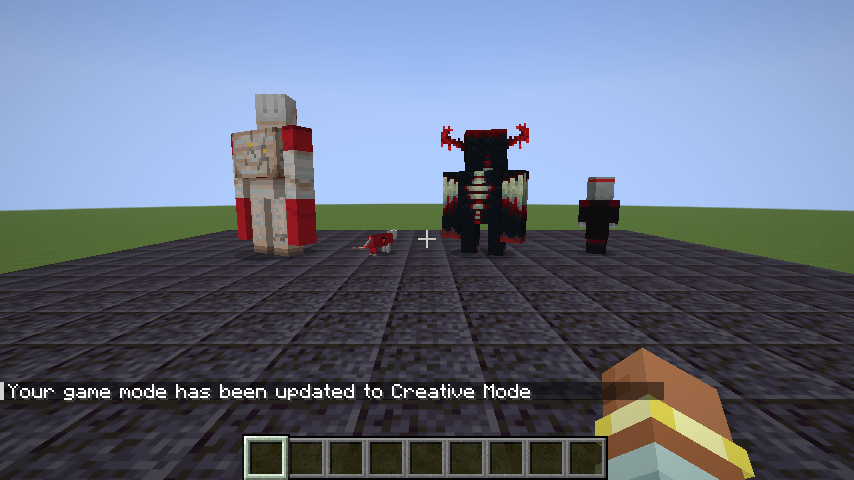
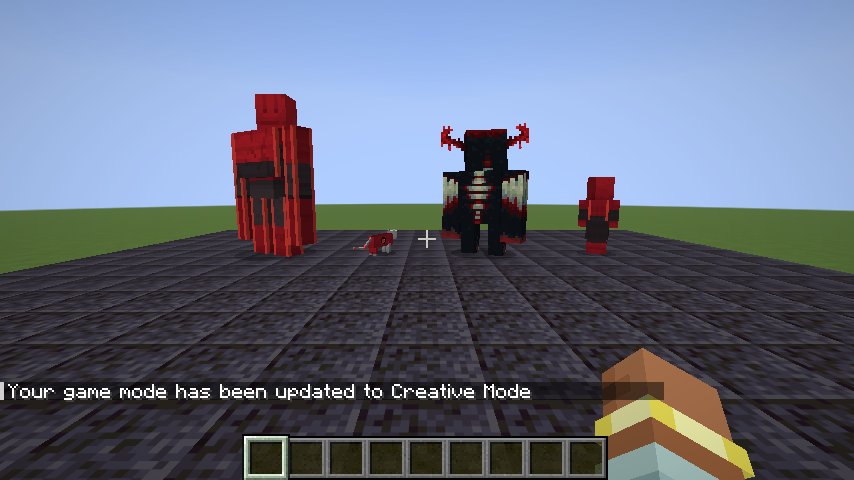
Red suits pass 2: full red and black golem with green eyes, armoured raiders, glowing silhouettes
J's notes on PR #191: the Blood Iron golem now wears a full red and black suit with green eyes,
and the Rage Raider gets a red helmet, chest plate, shoulder pads, gloves and boots over a black
undersuit. Both get a glowing silhouette like the Blue Lantern villagers: their box edges, emblem
and eyes drawn again in full light (emissive, ShaderGlow light).

Claude-Session: https://claude.ai/code/session_01MnfvUtwBdofXwYLcg96qEB

Changed region(s): [[0.274, 0.1875, 0.3653, 0.5312], [0.6698, 0.375, 0.7307, 0.4688], [0.6698, 0.5, 0.7307, 0.5312]]

diff --git a/tools/red_suits.py b/tools/red_suits.py
@@ -23,6 +23,8 @@ CRIMSON = ((70, 6, 14), (200, 30, 40))
 BLACK = ((16, 12, 14), (62, 50, 54))
 GLOW = (255, 70, 56)
 HOT = (255, 196, 186)
+EYE = (70, 255, 90)
+EYE_HOT = (210, 255, 200)
 
 
 def lum(p):
@@ -36,8 +38,16 @@ def ramp(p, pal, lo=0.15, hi=0.75):
     return tuple(round(a[i] + (b[i] - a[i]) * t) for i in range(3)) + (p[3],)
 
 
-def paint(im, box, pal, **kw):
+def paint(im, box, pal, norm=False, **kw):
+    """Shades the region from the palette by each pixel's brightness. With norm, the region's own darkest
+    and lightest pixels set the stretch, so dark cloth and bright iron come out equally bright."""
     x0, y0, x1, y1 = box
+    if norm:
+        ls = [lum(im.getpixel((x, y))) for y in range(y0, y1) for x in range(x0, x1) if im.getpixel((x, y))[3]]
+        if ls:
+            lo, hi = min(ls), max(ls)
+            span = max(hi - lo, 0.2)
+            kw = {"lo": lo - span * 0.8, "hi": lo + span}
     for y in range(y0, y1):
         for x in range(x0, x1):
             p = im.getpixel((x, y))
@@ -70,29 +80,97 @@ def reds_for_greens(im, box):
                 put(im, x, y, GLOW)
 
 
+def box(u, v, w, h, d):
+    """A model box's faces in its texture, as (x0, y0, x1, y1)."""
+    return {
+        "top": (u + d, v, u + d + w, v + d),
+        "bottom": (u + d + w, v, u + d + 2 * w, v + d),
+        "right": (u, v + d, u + d, v + d + h),
+        "front": (u + d, v + d, u + d + w, v + d + h),
+        "left": (u + d + w, v + d, u + 2 * d + w, v + d + h),
+        "back": (u + 2 * d + w, v + d, u + 2 * d + 2 * w, v + d + h),
+    }
+
+
+SIDES = ("right", "front", "left", "back")
+
+
+def bands(im, faces, rows, sides=SIDES):
+    """Paints the side faces in horizontal bands: rows is [(first row, end row, palette)], counted down the face."""
+    for side in sides:
+        x0, y0, x1, y1 = faces[side]
+        for r0, r1, pal in rows:
+            paint(im, (x0, y0 + r0, x1, min(y1, y0 + r1)), pal, norm=True)
+
+
+def edges(glow, faces, colour=GLOW, sides=SIDES, rows=None):
+    """The glowing silhouette: a line down both edges of each side face, so every corner of the box is lit."""
+    for side in sides:
+        x0, y0, x1, y1 = faces[side]
+        r0, r1 = (y0, y1) if rows is None else (y0 + rows[0], y0 + rows[1])
+        for y in range(r0, r1):
+            put(glow, x0, y, colour)
+            put(glow, x1 - 1, y, colour)
+
+
+def emblem_big(im, cx, cy, glow=None):
+    """The Red Lantern emblem, 6x6: a ring with the lantern's flame inside."""
+    rows = ["..##..", ".#..#.", "#.##.#", "#.##.#", ".#..#.", "..##.."]
+    for dy, row in enumerate(rows):
+        for dx, ch in enumerate(row):
+            if ch == "#":
+                c = HOT if (dx, dy) in ((2, 2), (3, 2)) else GLOW
+                put(im, cx + dx, cy + dy, c)
+                if glow is not None:
+                    put(glow, cx + dx, cy + dy, c)
+            elif 1 <= dx <= 4 and 1 <= dy <= 4:
+                put(im, cx + dx, cy + dy, BLACK[0])
+
+
 def pillager(src):
+    """P1 Rage Raider, after the Red Lantern troopers: a red helmet, chest plate, shoulder pads, gloves and
+    boots over a black undersuit, the emblem on the chest, and a red glowing silhouette."""
     im = Image.open(os.path.join(src, "illager", "pillager.png")).convert("RGBA")
-    # Head: a red headband all the way round, red eyes.
-    for x in range(0, 32):
-        put(im, x, 9, CRIMSON[1])
-    reds_for_greens(im, (8, 8, 16, 18))
-    # Body: black, with a crimson chest plate and the emblem.
-    paint(im, (16, 20, 44, 38), BLACK)
-    paint(im, (23, 27, 29, 38), CRIMSON)
-    emblem(im, 24, 29)
-    # The coat over the legs: black, with a red hem.
-    paint(im, (0, 38, 28, 64), BLACK)
-    for x in range(0, 28):
-        if im.getpixel((x, 63))[3]:
-            put(im, x, 63, CRIMSON[0])
-    # Arms: black sleeves, red shoulders; the hands stay.
-    paint(im, (40, 46, 56, 60), BLACK)
-    paint(im, (40, 46, 56, 53), CRIMSON)
-    # Legs: black with red knee guards.
-    paint(im, (0, 22, 16, 38), BLACK)
-    paint(im, (4, 30, 8, 33), CRIMSON)
-    paint(im, (12, 30, 16, 33), CRIMSON)
-    return im
+    glow = Image.new("RGBA", im.size)
+    head = box(0, 0, 8, 10, 8)
+    # The helmet: everything but the face, plus a brow rim over it.
+    for side in ("top", "right", "left", "back"):
+        paint(im, head[side], CRIMSON, norm=True)
+    fx0, fy0, fx1, fy1 = head["front"]
+    paint(im, (fx0, fy0, fx1, fy0 + 3), CRIMSON, norm=True)
+    for x in range(fx0, fx1):
+        put(im, x, fy0 + 3, BLACK[0])
+    for x, y in ((9, 14), (10, 14), (13, 14), (14, 14)):
+        put(im, x, y, HOT if x in (10, 13) else GLOW)
+        put(glow, x, y, HOT if x in (10, 13) else GLOW)
+    # The body: a red chest plate over a black undersuit, the emblem in the middle.
+    body = box(16, 20, 8, 12, 6)
+    paint(im, body["top"], CRIMSON, norm=True)
+    bands(im, body, [(0, 12, BLACK), (0, 7, CRIMSON)])
+    emblem_big(im, body["front"][0] + 1, body["front"][1] + 1, glow)
+    edges(glow, body)
+    # Arms: red shoulder pads, black sleeves, red gloves.
+    for u, v in ((40, 46),):
+        arm = box(u, v, 4, 12, 4)
+        paint(im, arm["top"], CRIMSON, norm=True)
+        paint(im, arm["bottom"], CRIMSON, norm=True)
+        bands(im, arm, [(0, 12, BLACK), (0, 4, CRIMSON), (9, 12, CRIMSON)])
+        edges(glow, arm, sides=("right", "left"))
+    # Crossed arms (the pose it holds when idle without a crossbow).
+    for u, v, w, h, d in ((44, 22, 4, 8, 4), (40, 38, 8, 4, 4)):
+        f = box(u, v, w, h, d)
+        for side in f.values():
+            paint(im, side, BLACK, norm=True)
+    # The coat's skirt and belt under the chest plate: black, with a red belt line.
+    paint(im, (0, 38, 28, 64), BLACK, norm=True)
+    jacket = box(0, 38, 8, 20, 6)
+    bands(im, jacket, [(0, 1, CRIMSON)])
+    # Legs: black, with red boots.
+    leg = box(0, 22, 4, 12, 4)
+    paint(im, leg["bottom"], CRIMSON, norm=True)
+    bands(im, leg, [(0, 12, BLACK), (7, 12, CRIMSON)])
+    edges(glow, leg, sides=("right", "left"))
+    return im, glow
 
 
 def warden(src):
@@ -141,37 +219,70 @@ def cat(src):
 
 
 def golem(src):
+    """G1 Blood Iron, now a full suit: red armour over a black undersuit from head to foot, green eyes,
+    the Red Lantern emblem on the chest and a red glowing silhouette."""
     im = Image.open(os.path.join(src, "iron_golem", "iron_golem.png")).convert("RGBA")
+    glow = Image.new("RGBA", im.size)
     w, h = im.size
-    # No vines: green turns back to iron.
+    # No vines.
     for y in range(h):
         for x in range(w):
             r, g, b, a = im.getpixel((x, y))
             if a and g > r + 12 and g > b + 12:
                 v = int(lum((r, g, b, a)) * 255 * 1.15)
                 im.putpixel((x, y), (v, v - 4, v - 8, a))
-    reds_for_greens(im, (0, 0, 32, 18))
-    # Crimson shoulder plates over the top of the body and arms.
-    paint(im, (0, 40, 40, 51), CRIMSON)
-    paint(im, (60, 21, 80, 33), CRIMSON)
-    paint(im, (60, 58, 80, 70), CRIMSON)
-    # Crimson gauntlets on the forearms.
-    paint(im, (60, 45, 80, 57), CRIMSON)
-    paint(im, (60, 82, 80, 94), CRIMSON)
-    # A Red Lantern battery set in its chest (body front is 11..29, 51..63).
-    for y in range(53, 62):
-        for x in range(16, 24):
-            edge = x in (16, 23) or y in (53, 61)
-            core = 18 <= x <= 21 and 55 <= y <= 59
-            put(im, x, y, BLACK[0] if edge else HOT if core and 19 <= x <= 20 and 56 <= y <= 58 else GLOW if core else CRIMSON[0])
-    return im
+    # Head: a red helmet with a black visor band across the eyes; the eyes glow green.
+    head = box(0, 0, 8, 10, 8)
+    for side in head.values():
+        paint(im, side, CRIMSON, norm=True)
+    fx0, fy0, fx1, fy1 = head["front"]
+    for x in range(fx0, fx1):
+        for y in range(fy0 + 4, fy0 + 7):
+            put(im, x, y, BLACK[0] if y == fy0 + 4 else BLACK[1])
+    for x, y in ((9, 13), (10, 13), (13, 13), (14, 13), (9, 14), (10, 14), (13, 14), (14, 14)):
+        c = EYE_HOT if y == 14 and x in (9, 14) else EYE
+        put(im, x, y, c)
+        put(glow, x, y, c)
+    paint(im, (24, 0, 32, 6), CRIMSON, norm=True)  # the nose
+    # Chest: red plate, black at the sides, the emblem big in the middle.
+    body = box(0, 40, 18, 12, 11)
+    paint(im, body["top"], CRIMSON, norm=True)
+    paint(im, body["bottom"], BLACK, norm=True)
+    bands(im, body, [(0, 12, CRIMSON), (8, 12, BLACK)], sides=("front", "back"))
+    bands(im, body, [(0, 12, BLACK), (0, 4, CRIMSON)], sides=("right", "left"))
+    emblem_big(im, body["front"][0] + 6, body["front"][1] + 1, glow)
+    edges(glow, body)
+    # Waist: black with a red belt line.
+    waist = box(0, 70, 9, 5, 6)
+    for side in waist.values():
+        paint(im, side, BLACK, norm=True)
+    bands(im, waist, [(0, 1, CRIMSON)])
+    # Arms: red shoulder pads, black upper arm, red gauntlets with a black cuff.
+    for u, v in ((60, 21), (60, 58)):
+        arm = box(u, v, 4, 30, 6)
+        paint(im, arm["top"], CRIMSON, norm=True)
+        paint(im, arm["bottom"], CRIMSON, norm=True)
+        bands(im, arm, [(0, 30, BLACK), (0, 9, CRIMSON), (17, 30, CRIMSON), (17, 18, BLACK)])
+        edges(glow, arm)
+    # Legs: black thighs, red boots.
+    for u, v in ((37, 0), (60, 0)):
+        leg = box(u, v, 6, 16, 5)
+        paint(im, leg["top"], BLACK, norm=True)
+        paint(im, leg["bottom"], CRIMSON, norm=True)
+        bands(im, leg, [(0, 16, BLACK), (8, 16, CRIMSON)])
+        edges(glow, leg)
+    return im, glow
 
 
 def main():
     src = sys.argv[1]
     os.makedirs(OUT, exist_ok=True)
     for name, fn in (("rage_raider", pillager), ("caged_heart_warden", warden), ("rage_cat", cat), ("blood_iron_golem", golem)):
-        fn(src).save(os.path.join(OUT, name + ".png"))
+        out = fn(src)
+        im, glow = out if isinstance(out, tuple) else (out, None)
+        im.save(os.path.join(OUT, name + ".png"))
+        if glow is not None:
+            glow.save(os.path.join(OUT, name + "_glow.png"))
         print("wrote", name)
 
 

diff --git a/src/client/java/com/sparky/lanternring/client/corps/RedSuitRenderers.java b/src/client/java/com/sparky/lanternring/client/corps/RedSuitRenderers.java
@@ -11,7 +11,16 @@ import net.minecraft.client.renderer.entity.EntityRendererProvider;
 import net.minecraft.client.renderer.entity.IronGolemRenderer;
 import net.minecraft.client.renderer.entity.PillagerRenderer;
 import net.minecraft.client.renderer.entity.WardenRenderer;
+import com.mojang.blaze3d.vertex.PoseStack;
+import com.sparky.lanternring.client.ShaderGlow;
+import java.util.function.Predicate;
+import net.minecraft.client.model.EntityModel;
+import net.minecraft.client.renderer.SubmitNodeCollector;
+import net.minecraft.client.renderer.entity.RenderLayerParent;
 import net.minecraft.client.renderer.entity.layers.LivingEntityEmissiveLayer;
+import net.minecraft.client.renderer.entity.layers.RenderLayer;
+import net.minecraft.client.renderer.entity.state.LivingEntityRenderState;
+import net.minecraft.client.renderer.texture.OverlayTexture;
 import net.minecraft.client.renderer.entity.state.CatRenderState;
 import net.minecraft.client.renderer.entity.state.IllagerRenderState;
 import net.minecraft.client.renderer.entity.state.IronGolemRenderState;
@@ -34,11 +43,36 @@ public final class RedSuitRenderers {
 	private RedSuitRenderers() {
 	}
 
+	/**
+	 * The suit's glowing silhouette, as the Blue Lantern villagers have theirs: the box edges, the emblem and
+	 * the eyes drawn again on top in full light, breathing slowly. Emissive translucent with ShaderGlow's light,
+	 * so it blooms under the patched pack instead of turning into a black box.
+	 */
+	static class SuitGlow<S extends LivingEntityRenderState, M extends EntityModel<? super S>> extends RenderLayer<S, M> {
+		private final Identifier texture;
+		private final Predicate<S> when;
+
+		SuitGlow(RenderLayerParent<S, M> parent, Identifier texture, Predicate<S> when) {
+			super(parent);
+			this.texture = texture;
+			this.when = when;
+		}
+
+		@Override
+		public void submit(PoseStack poseStack, SubmitNodeCollector collector, int light, S state, float yRot, float xRot) {
+			if (state.isInvisible || !when.test(state)) return;
+			float a = 0.8f + 0.2f * Mth.sin(state.ageInTicks * 0.1f);
+			collector.order(1).submitModel(getParentModel(), state, poseStack, RenderTypes.entityTranslucentEmissive(texture),
+					ShaderGlow.light(), OverlayTexture.NO_OVERLAY, Math.round(a * 255) << 24 | 0xFFFFFF, null, 0);
+		}
+	}
+
 	public static class Raider extends PillagerRenderer {
 		private static final Identifier SKIN = skin("rage_raider");
 
 		public Raider(EntityRendererProvider.Context context) {
 			super(context);
+			addLayer(new SuitGlow<>(this, skin("rage_raider_glow"), state -> true));
 		}
 
 		@Override
@@ -100,6 +134,7 @@ public final class RedSuitRenderers {
 
 		public Golem(EntityRendererProvider.Context context) {
 			super(context);
+			addLayer(new SuitGlow<>(this, skin("blood_iron_golem_glow"), state -> state instanceof State s && s.red));
 		}
 
 		@Override
